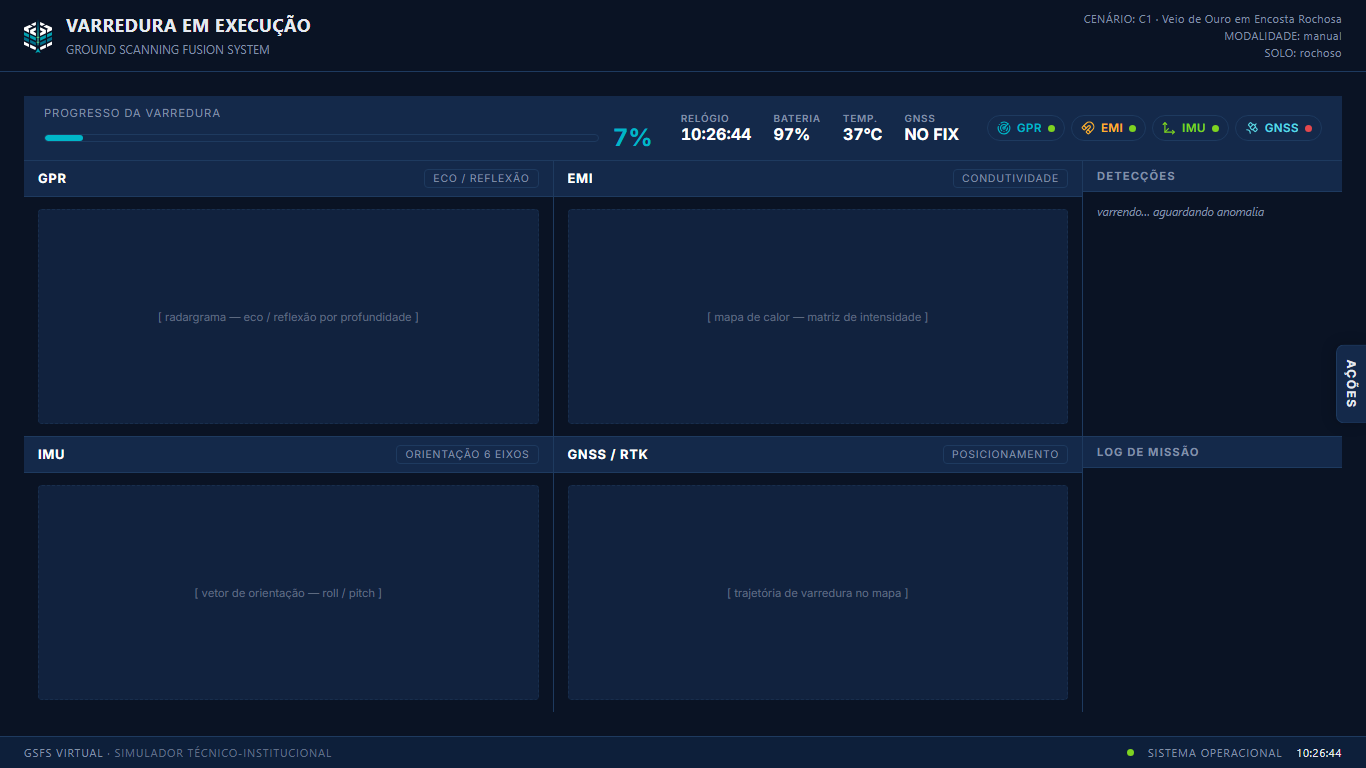
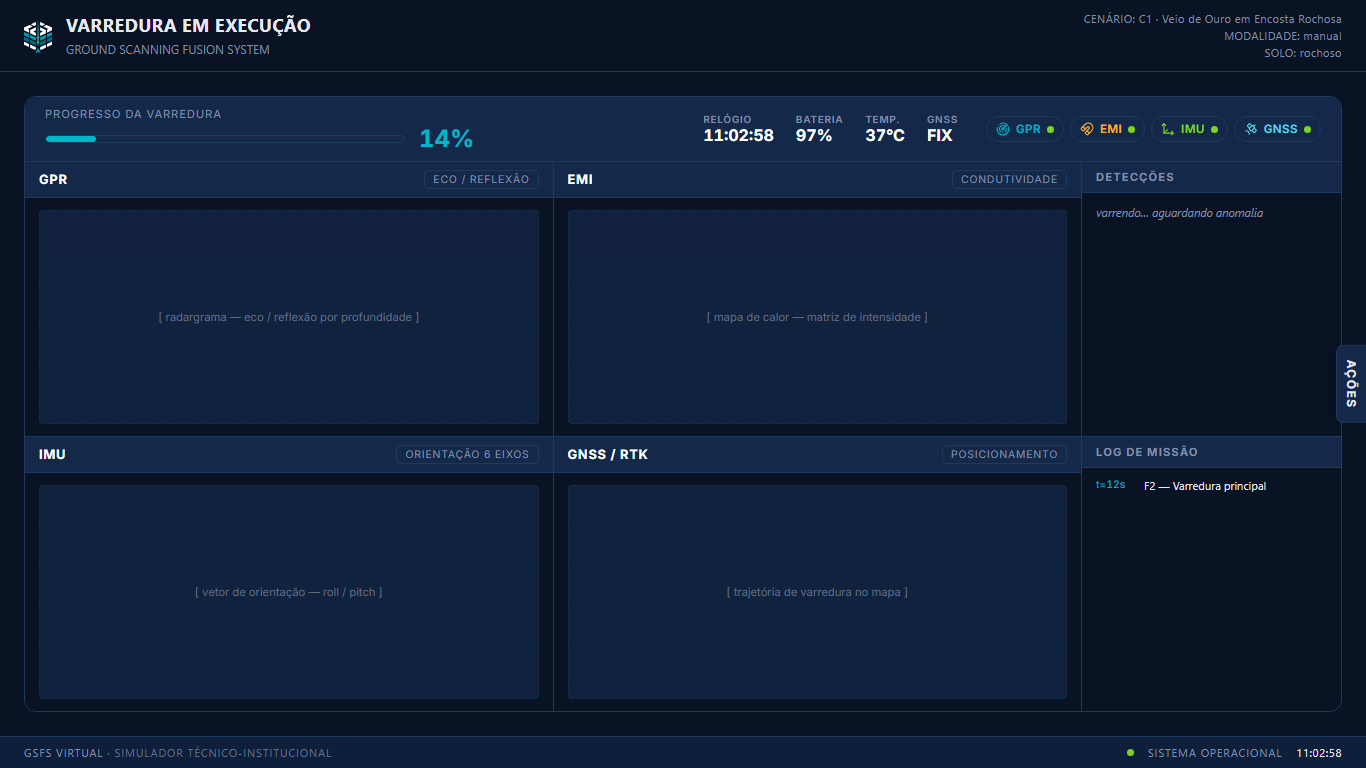
fix(e4): console com cantos arredondados; barra de progresso contida
- .sv-root vira superficie contida (borda + radius), o vao das laterais
  (padding do body) fica intencional em vez de cortado.
- barra de progresso com largura contida (360px) em vez de esticar pelo
  espaco todo; % permanece ao lado da barra.

diff --git a/app/src/prototype/sim/ScanView.css b/app/src/prototype/sim/ScanView.css
@@ -1,12 +1,14 @@
-.sv-root { display: flex; flex-direction: column; gap: 0; height: 100%; overflow: hidden; }
+/* Console de varredura: superfície contida com cantos arredondados — o vão
+   das laterais (padding do body) fica intencional, não "cortado". */
+.sv-root { display: flex; flex-direction: column; gap: 0; height: 100%; overflow: hidden; box-sizing: border-box; border: 1px solid var(--color-border); border-radius: var(--radius-lg); }
 
 .sv-hud { display: flex; align-items: center; gap: 28px; padding: 10px 20px; background: var(--color-bg-raised); border-bottom: 1px solid var(--color-border); flex-shrink: 0; flex-wrap: wrap; }
 
 .sv-hud-progress { display: flex; flex-direction: column; gap: 6px; flex: 1 1 280px; min-width: 220px; }
 .sv-hud-progress-label { font-family: var(--font-secondary); font-size: 0.7rem; letter-spacing: 0.08em; text-transform: uppercase; color: var(--color-text-muted); }
 .sv-hud-progress-track { display: flex; align-items: center; gap: 14px; }
-/* barra ocupa toda a largura disponível (encosta nas laterais) */
-.sv-hud-progress-track .gsfs-progress { flex: 1; width: auto; }
+/* barra com largura contida (não estica pelo espaço todo); % fica ao lado */
+.sv-hud-progress-track .gsfs-progress { flex: 0 0 auto; width: 360px; max-width: 48vw; }
 .sv-hud-progress-pct { font-family: var(--font-secondary); font-size: 1.5rem; line-height: 1; font-weight: 700; color: var(--color-primary); font-variant-numeric: tabular-nums; flex-shrink: 0; }
 
 .sv-hud-metrics { display: flex; gap: 22px; flex-wrap: wrap; flex-shrink: 0; }
